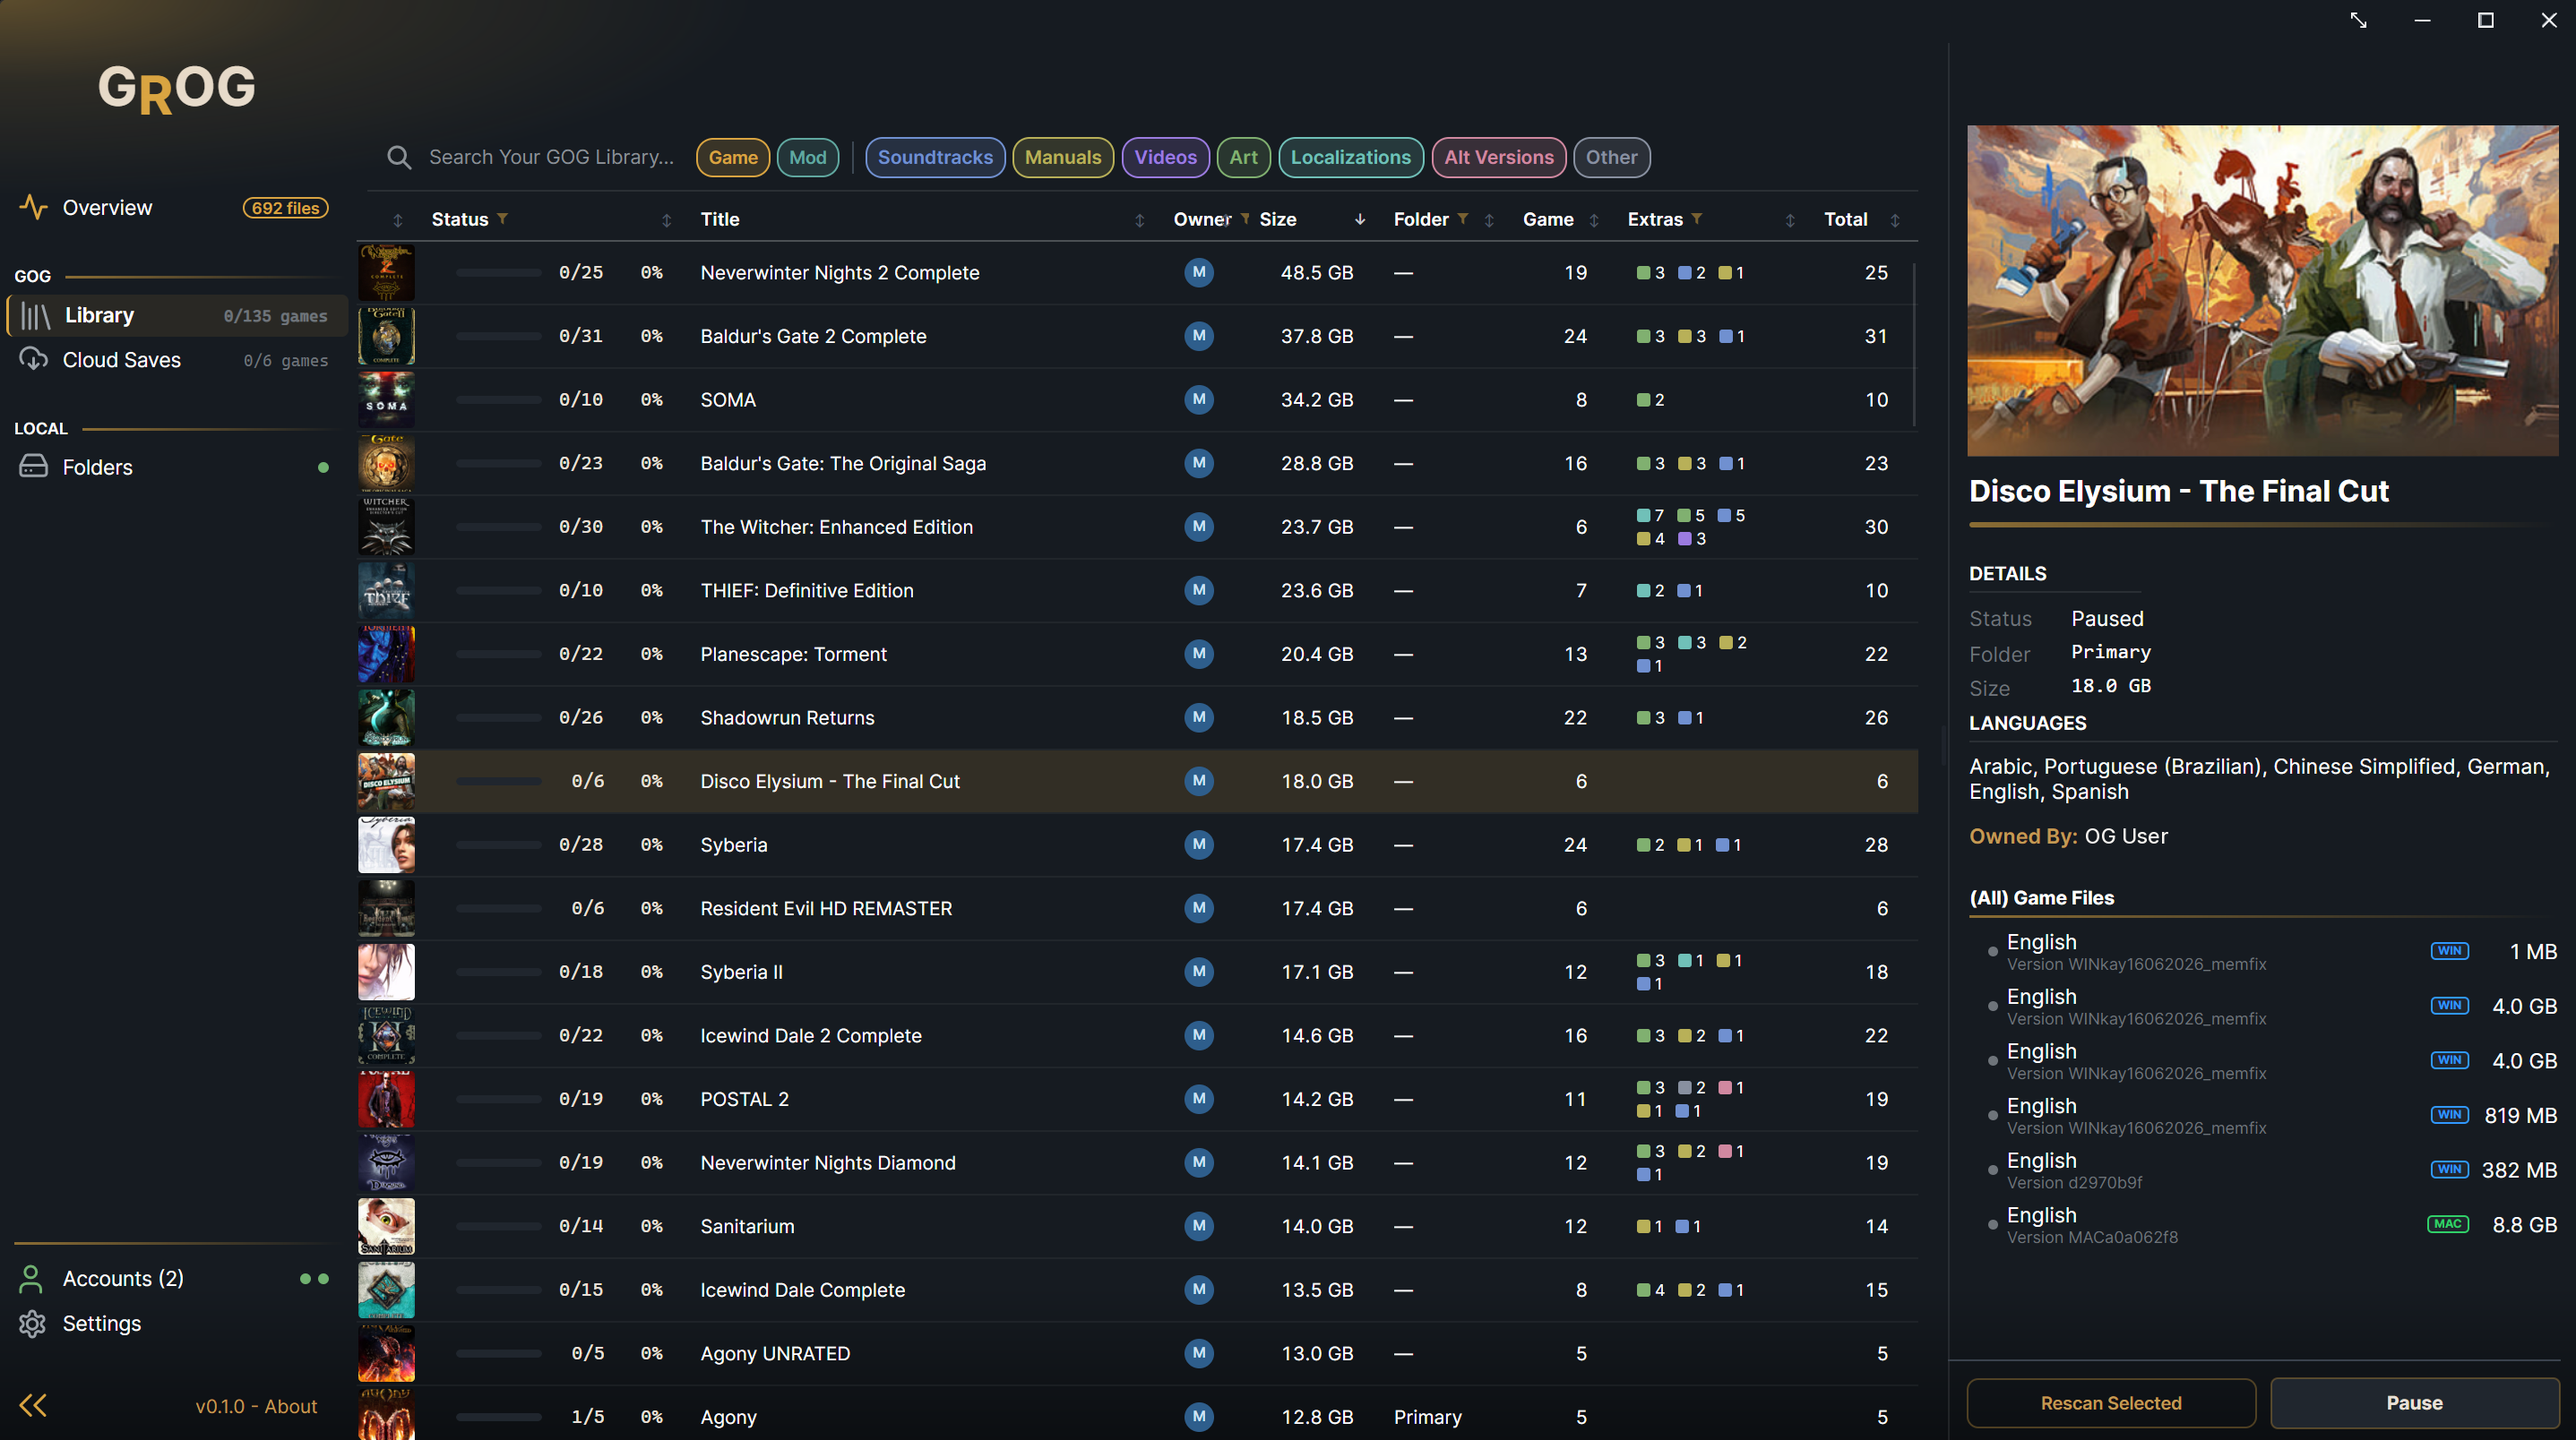
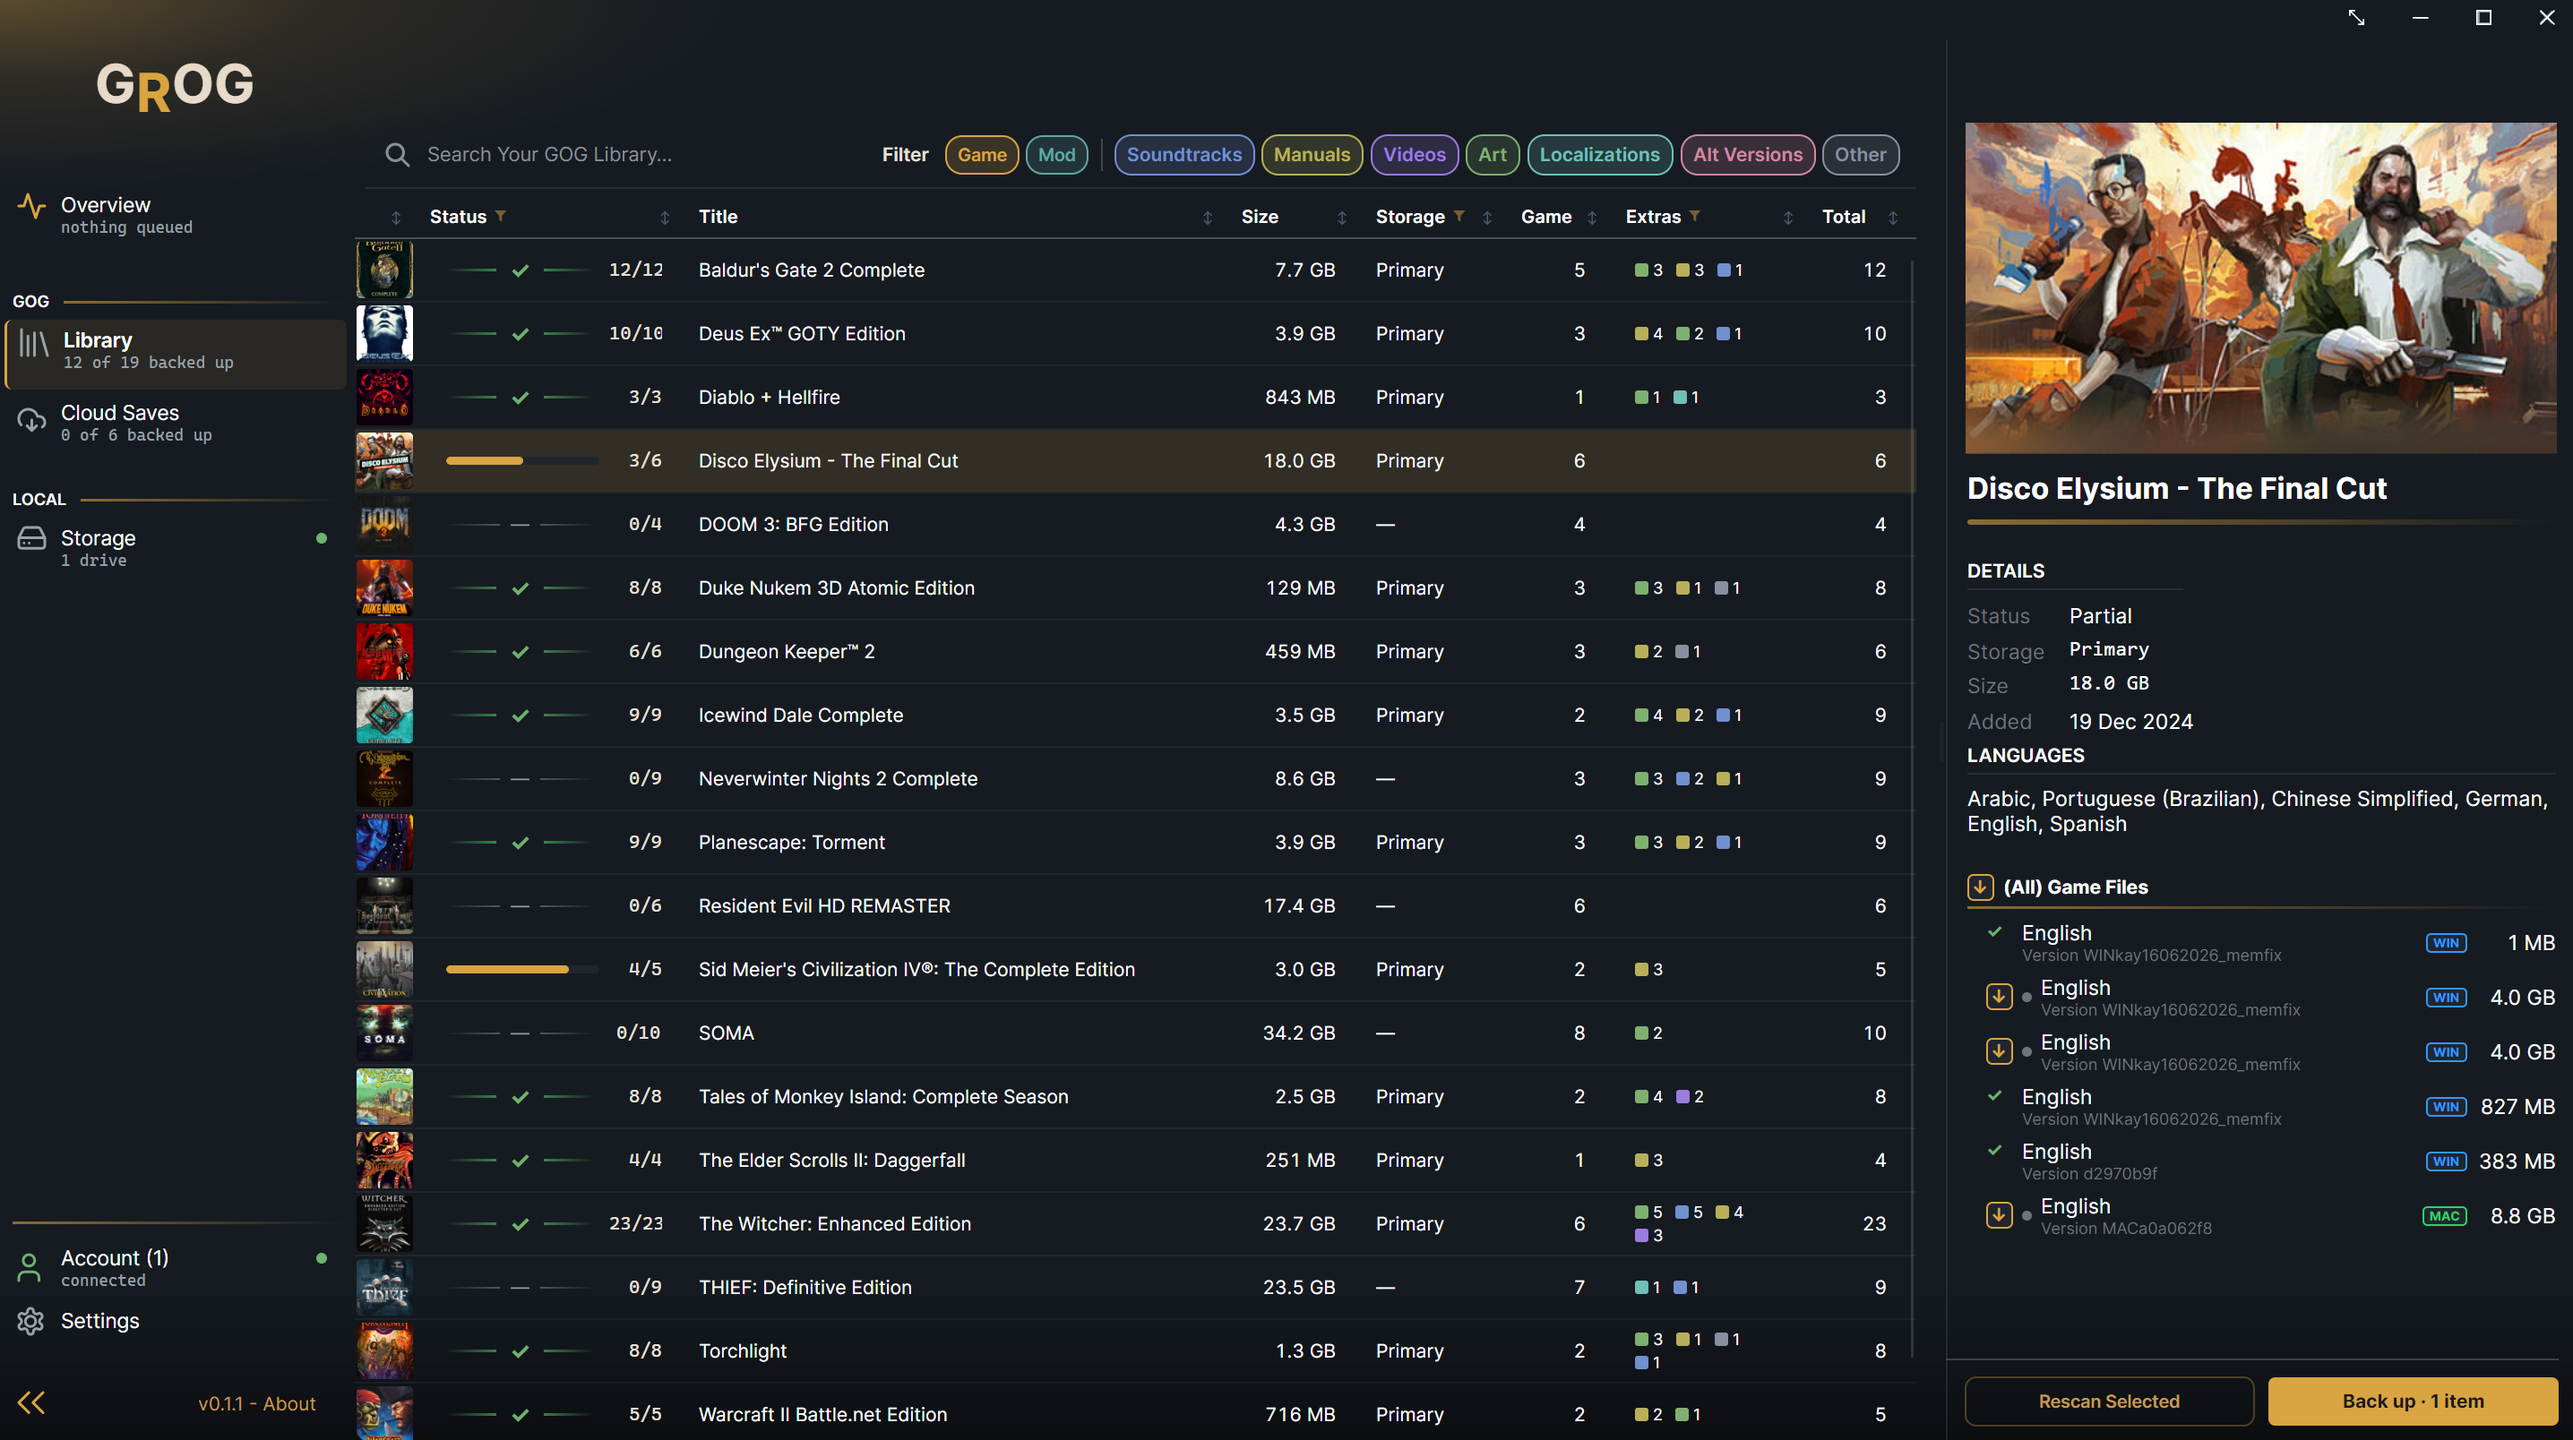
Smoothed per-file time left; bolder done tick; new hero screenshot

diff --git a/tests/Grog.Core.Tests/FileEtaTests.cs b/tests/Grog.Core.Tests/FileEtaTests.cs
@@ -1,0 +1,60 @@
+// Grog - GOG.com library backup tool
+// Licensed under GPL-3.0-or-later
+namespace Grog.Core.Tests;
+
+using System;
+using Grog.Core.Download;
+using Grog.Core.Tests.Framework;
+
+[NewBatch]
+[Trait("throughput")]
+public class FileEtaTests
+{
+    private static DateTime At(double s) => new DateTime(2026, 1, 1, 0, 0, 0, DateTimeKind.Utc).AddSeconds(s);
+    private const long Total = 4_000_000_000;
+
+    [Test] void SilentUntilSettled()
+    {
+        var e = new FileEta();
+        Assert.True(e.Update(At(0), 0, Total) is null, "first sample: nothing yet");
+        Assert.True(e.Update(At(1), 10_000_000, Total) is null, "under the settle time: nothing yet");
+        Assert.True(e.Update(At(3.5), 35_000_000, Total) is not null, "settled: speaks");
+    }
+
+    [Test] void SteadyRateCountsDownOneSecondPerSecond()
+    {
+        var e = new FileEta();
+        double? prev = null;
+        for (int i = 0; i <= 120; i++)
+        {
+            var s = e.Update(At(i * 0.5), (long)(i * 0.5 * 10_000_000), Total);
+            if (i == 120) Assert.True(Math.Abs(s!.Value - (Total - 600_000_000) / 10_000_000.0) < 2, "true time left at a steady 10 MB/s");
+            if (prev is { } p && s is { } c && i > 20) Assert.True(Math.Abs(p - c - 0.5) < 0.2, "counts down with the clock");
+            prev = s;
+        }
+    }
+
+    [Test] void ABriefDipDoesNotSwingTheEstimate()
+    {
+        var e = new FileEta();
+        long b = 0; double? before = null, worst = null;
+        for (int i = 1; i <= 120; i++)
+        {
+            bool dip = i is >= 100 and < 102;                  // one second at a tenth of the speed
+            b += dip ? 500_000 : 5_000_000;                    // 10 MB/s otherwise, sampled every 0.5 s
+            var s = e.Update(At(i * 0.5), b, Total);
+            if (i == 99) before = s;
+            if (i >= 100 && s is { } v) worst = Math.Max(worst ?? 0, v);
+        }
+        // The old readout (left / half-second speed) jumped tenfold here: ~340 s to ~3400 s.
+        Assert.True(worst!.Value - before!.Value < 30, $"a one-second dip moves it by seconds, not minutes ({before:0} -> {worst:0})");
+    }
+
+    [Test] void RestartedTransferStartsOver()
+    {
+        var e = new FileEta();
+        e.Update(At(0), 0, Total);
+        e.Update(At(5), 50_000_000, Total);
+        Assert.True(e.Update(At(6), 1_000, Total) is null, "bytes went backwards (a restart): settle again");
+    }
+}

diff --git a/src/Grog.Core/Download/FileEta.cs b/src/Grog.Core/Download/FileEta.cs
@@ -1,0 +1,50 @@
+// Grog - GOG.com library backup tool
+// Licensed under GPL-3.0-or-later
+namespace Grog.Core.Download;
+
+using System;
+
+/// <summary>
+/// Time left for ONE file in flight. The engine reports a half-second speed for the graph; dividing what is left
+/// by that figure swings by minutes on a big file every time the link dips or bursts. Here the rate is a
+/// time-weighted moving average (about <see cref="RateTauSeconds"/> of memory), nothing is said until the file has
+/// moved for <see cref="SettleSeconds"/>, and the FINISH TIME is smoothed so the readout counts down instead of
+/// jumping. Same approach as <see cref="ThroughputMeter"/> for the whole run.
+/// <para>Pure and clock-free: the caller supplies timestamps, so tests drive time directly.</para>
+/// </summary>
+public sealed class FileEta
+{
+    public const double RateTauSeconds = 20.0;
+    public const double SettleSeconds = 3.0;
+    private const double FinishAlpha = 0.2;
+
+    private DateTime? _start;
+    private DateTime _last;
+    private long _lastBytes;
+    private double _rate;            // smoothed bytes/sec
+    private DateTime? _finish;       // smoothed finish time
+
+    /// <summary>Feed one progress sample; returns the smoothed seconds left, or null while still settling.</summary>
+    public double? Update(DateTime now, long bytesReceived, long? bytesTotal)
+    {
+        if (_start is null || bytesReceived < _lastBytes)
+        {
+            _start = now; _last = now; _lastBytes = bytesReceived; _rate = 0; _finish = null;
+            return null;
+        }
+        double dt = (now - _last).TotalSeconds;
+        if (dt <= 0) return Current(now);
+        double inst = (bytesReceived - _lastBytes) / dt;
+        double w = 1 - Math.Exp(-dt / RateTauSeconds);
+        _rate = _rate <= 0 ? inst : _rate + w * (inst - _rate);
+        _last = now; _lastBytes = bytesReceived;
+
+        if ((now - _start.Value).TotalSeconds < SettleSeconds || _rate <= 0 || bytesTotal is not { } total) return null;
+        long left = Math.Max(0, total - bytesReceived);
+        var raw = now + TimeSpan.FromSeconds(left / _rate);
+        _finish = _finish is { } prev ? prev + TimeSpan.FromTicks((long)((raw - prev).Ticks * FinishAlpha)) : raw;
+        return Current(now);
+    }
+
+    private double? Current(DateTime now) => _finish is { } f ? Math.Max(0, (f - now).TotalSeconds) : null;
+}

diff --git a/src/Grog.Core/Download/DownloadEngine.cs b/src/Grog.Core/Download/DownloadEngine.cs
@@ -525,7 +525,7 @@ public sealed class DownloadEngine
                 {
                     task.PreemptRequested = false;
                     task.State = DownloadTaskState.Pending;
-                    task.BytesPerSecond = 0;
+                    task.BytesPerSecond = 0; task.SecondsLeft = null;
                 }
                 else task.State = DownloadTaskState.Canceled;
             }
@@ -576,7 +576,7 @@ public sealed class DownloadEngine
                     && PartLength(task) is { } partLen)
                     task.File.PartialBytes = partLen;
                 task.Cancellation = null;
-                task.BytesPerSecond = 0;
+                task.BytesPerSecond = 0; task.SecondsLeft = null;
                 TaskChanged?.Invoke(task);
                 QueueChanged?.Invoke();
             }
@@ -1079,6 +1079,8 @@ public sealed class DownloadEngine
             // (not a user cancel) and the .part is preserved for resume.
             var speedWindowStart = DateTime.UtcNow;
             long speedWindowBytes = 0;
+            var fileEta = new FileEta();
+            task.SecondsLeft = fileEta.Update(speedWindowStart, task.BytesReceived, task.BytesTotal);
             using (var stall = new StallGuard(ct, StallTimeout))
             {
                 while (true)
@@ -1095,6 +1097,7 @@ public sealed class DownloadEngine
                     if (elapsed >= 0.5)
                     {
                         task.BytesPerSecond = speedWindowBytes / elapsed;
+                        task.SecondsLeft = fileEta.Update(DateTime.UtcNow, task.BytesReceived, task.BytesTotal);
                         speedWindowStart = DateTime.UtcNow;
                         speedWindowBytes = 0;
                         TaskChanged?.Invoke(task);
@@ -1102,7 +1105,7 @@ public sealed class DownloadEngine
                     await throttle.ThrottleAsync(read, ct);
                 }
             }
-            task.FinishingPhase = "Writing to disk"; task.BytesPerSecond = 0; TaskChanged?.Invoke(task);
+            task.FinishingPhase = "Writing to disk"; task.BytesPerSecond = 0; task.SecondsLeft = null; TaskChanged?.Invoke(task);
             var flushClock = System.Diagnostics.Stopwatch.StartNew();
             await outStream.FlushAsync(ct);
             outStream.Flush(flushToDisk: true);

diff --git a/src/Grog.App/ViewModels/Rows/QueueRow.cs b/src/Grog.App/ViewModels/Rows/QueueRow.cs
@@ -188,9 +188,9 @@ public sealed partial class QueueRow : ObservableObject, IDropTargetRow
         get
         {
             if (QueuePaused || Task.FinishingPhase is not null) return "";
-            if (Task.BytesPerSecond <= 0) return "";
-            long left = Math.Max(0, (Task.BytesTotal ?? 0) - Task.BytesReceived);
-            var eta = left > 0 ? TimeSpan.FromSeconds(left / Task.BytesPerSecond) : TimeSpan.Zero;
+            // Smoothed per file (FileEta), not remaining bytes over the half-second speed, which swung by minutes.
+            if (Task.SecondsLeft is not { } secs) return "";
+            var eta = TimeSpan.FromSeconds(secs);
             var etaText = eta.TotalHours >= 1 ? $"{(int)eta.TotalHours}h {eta.Minutes}m"
                         : eta.TotalMinutes >= 1 ? $"{(int)eta.TotalMinutes}m" : $"{eta.Seconds}s";
             // Time left only: the live rate is the Overview's big readout, and on the card it crowded the percent.

diff --git a/src/Grog.Core/Download/DownloadTask.cs b/src/Grog.Core/Download/DownloadTask.cs
@@ -35,6 +35,8 @@ public sealed class DownloadTask
     public string? DownloadedVia { get; set; }
     /// <summary>Live throughput for the active transfer, bytes/sec (rolling). 0 when idle.</summary>
     public double BytesPerSecond { get; set; }
+    /// <summary>Smoothed seconds left for this transfer (<see cref="FileEta"/>); null while settling or idle.</summary>
+    public double? SecondsLeft { get; set; }
 
     /// <summary>After the last byte: the tail of a transfer that is not network at all. Flushing to the drive
     /// (a USB stick with write-through can take many seconds for a few hundred MB) and hashing the file read
